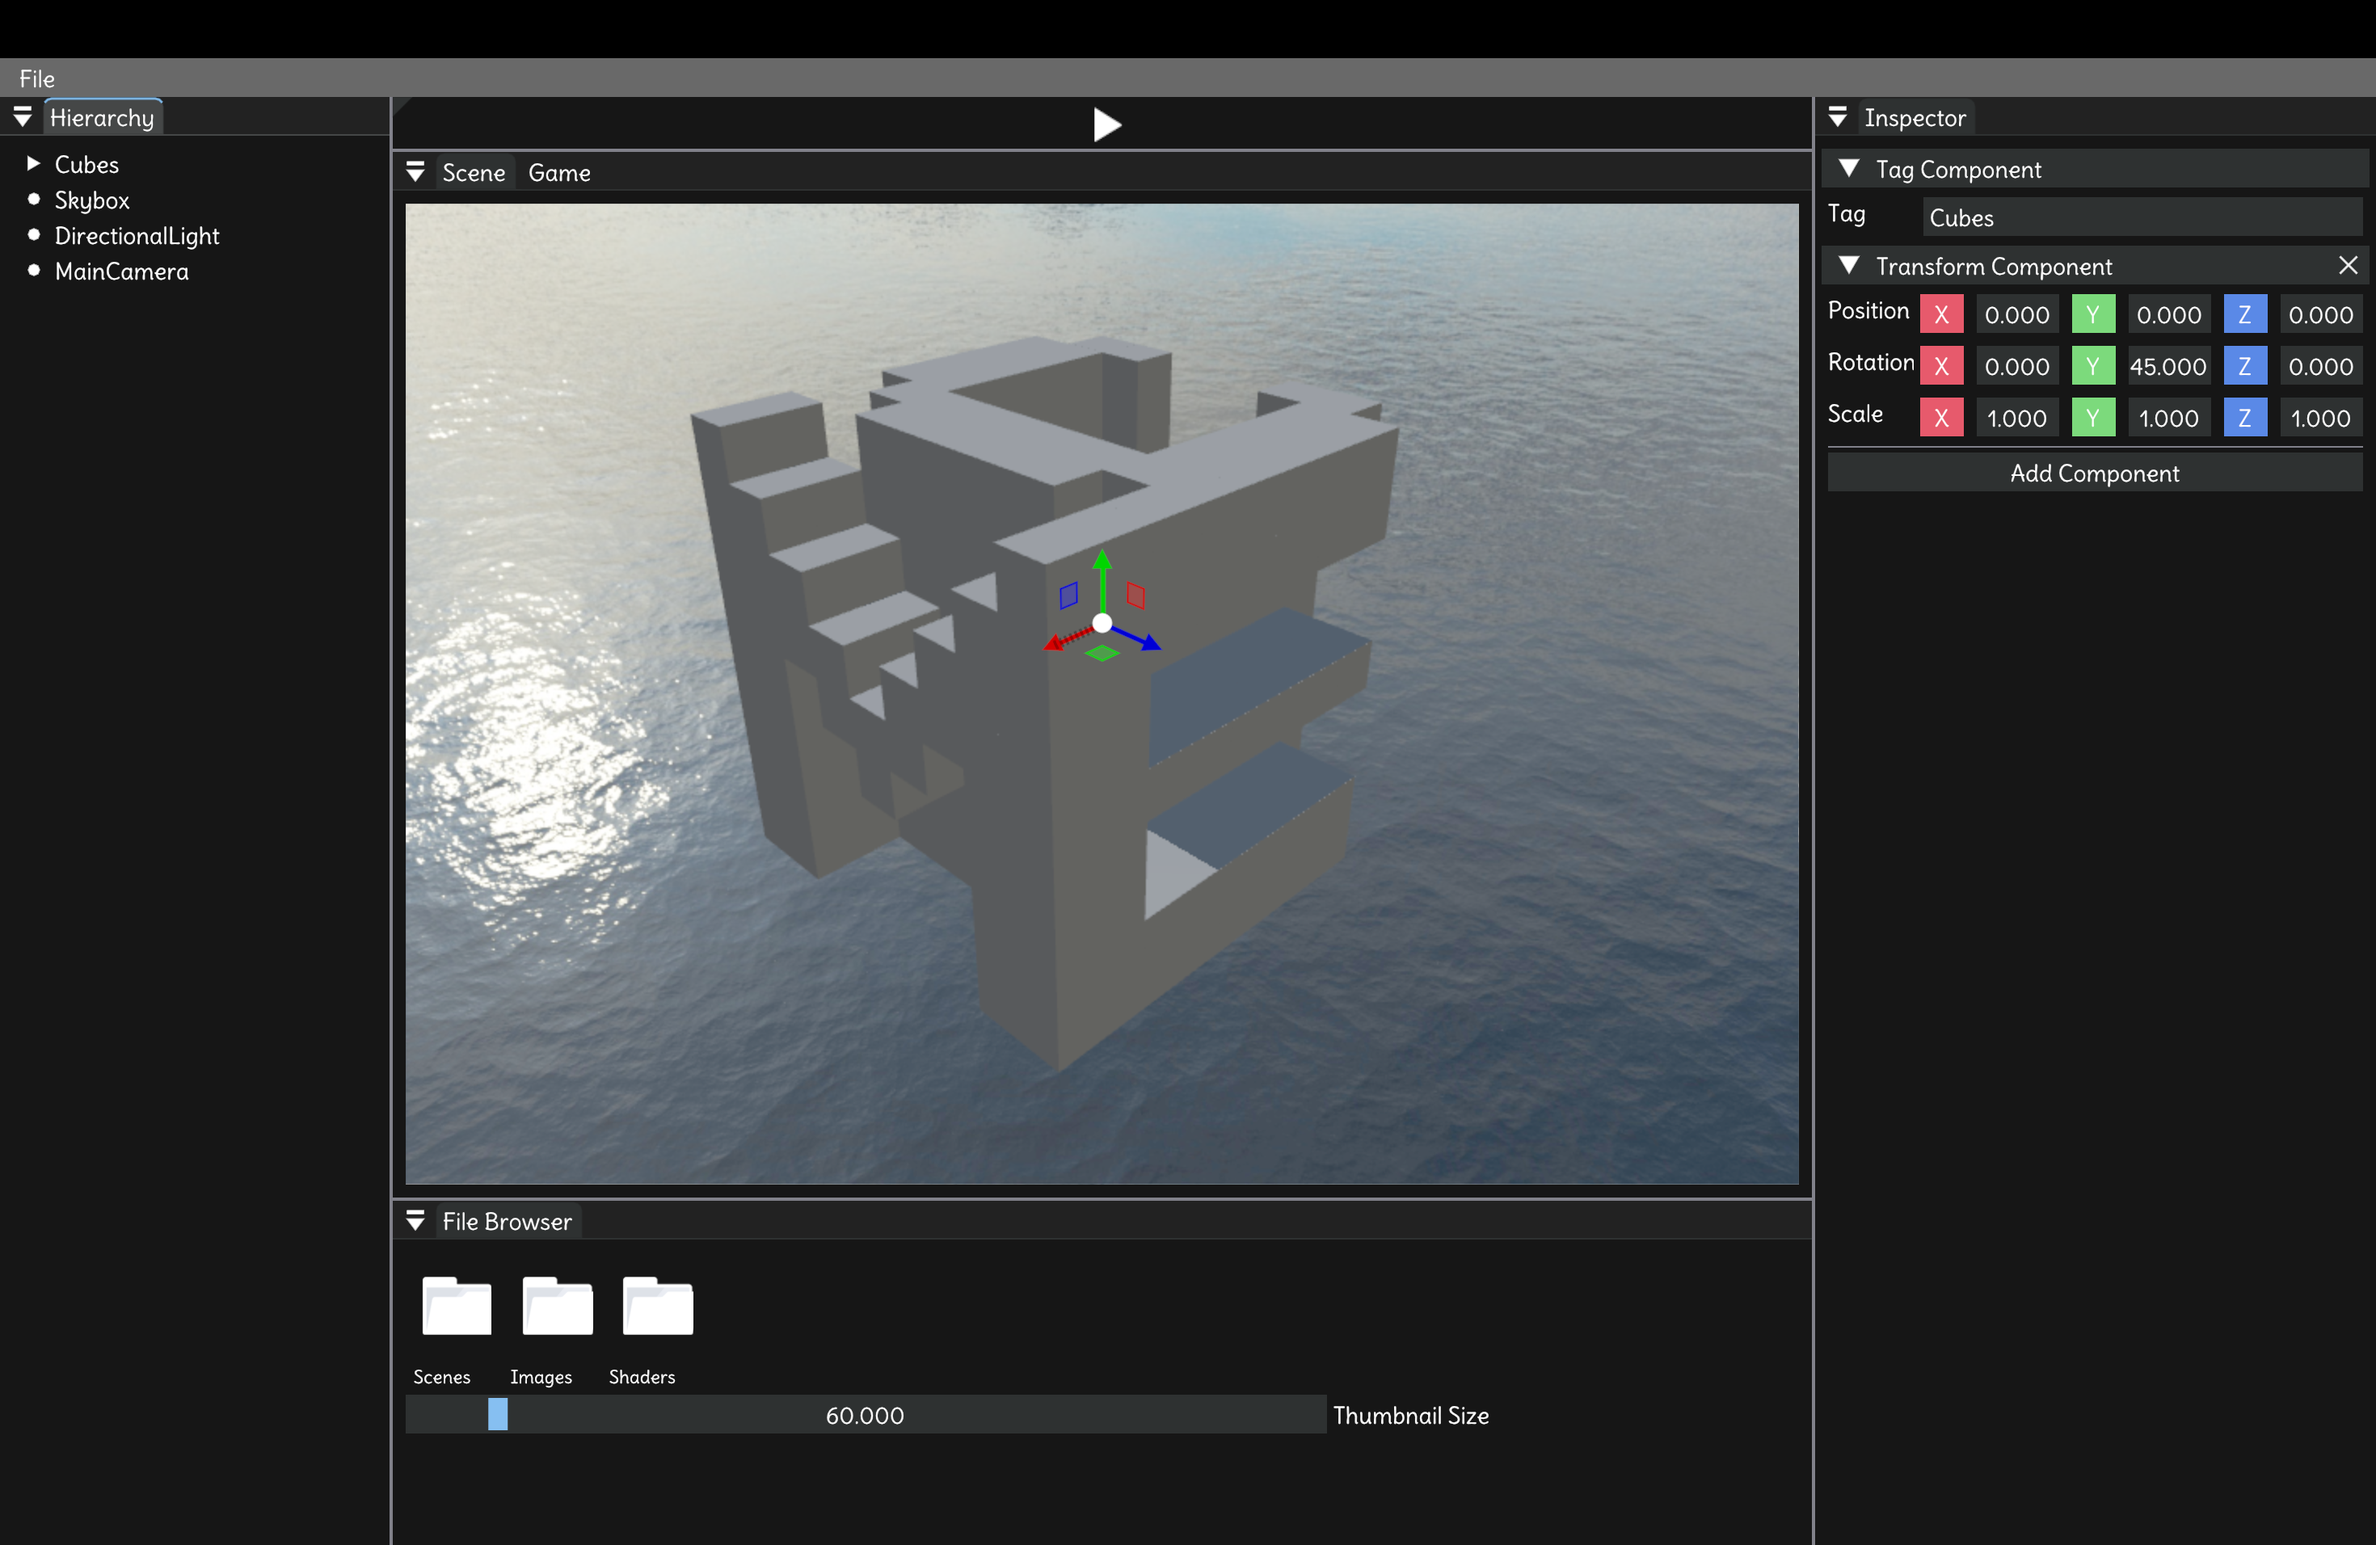
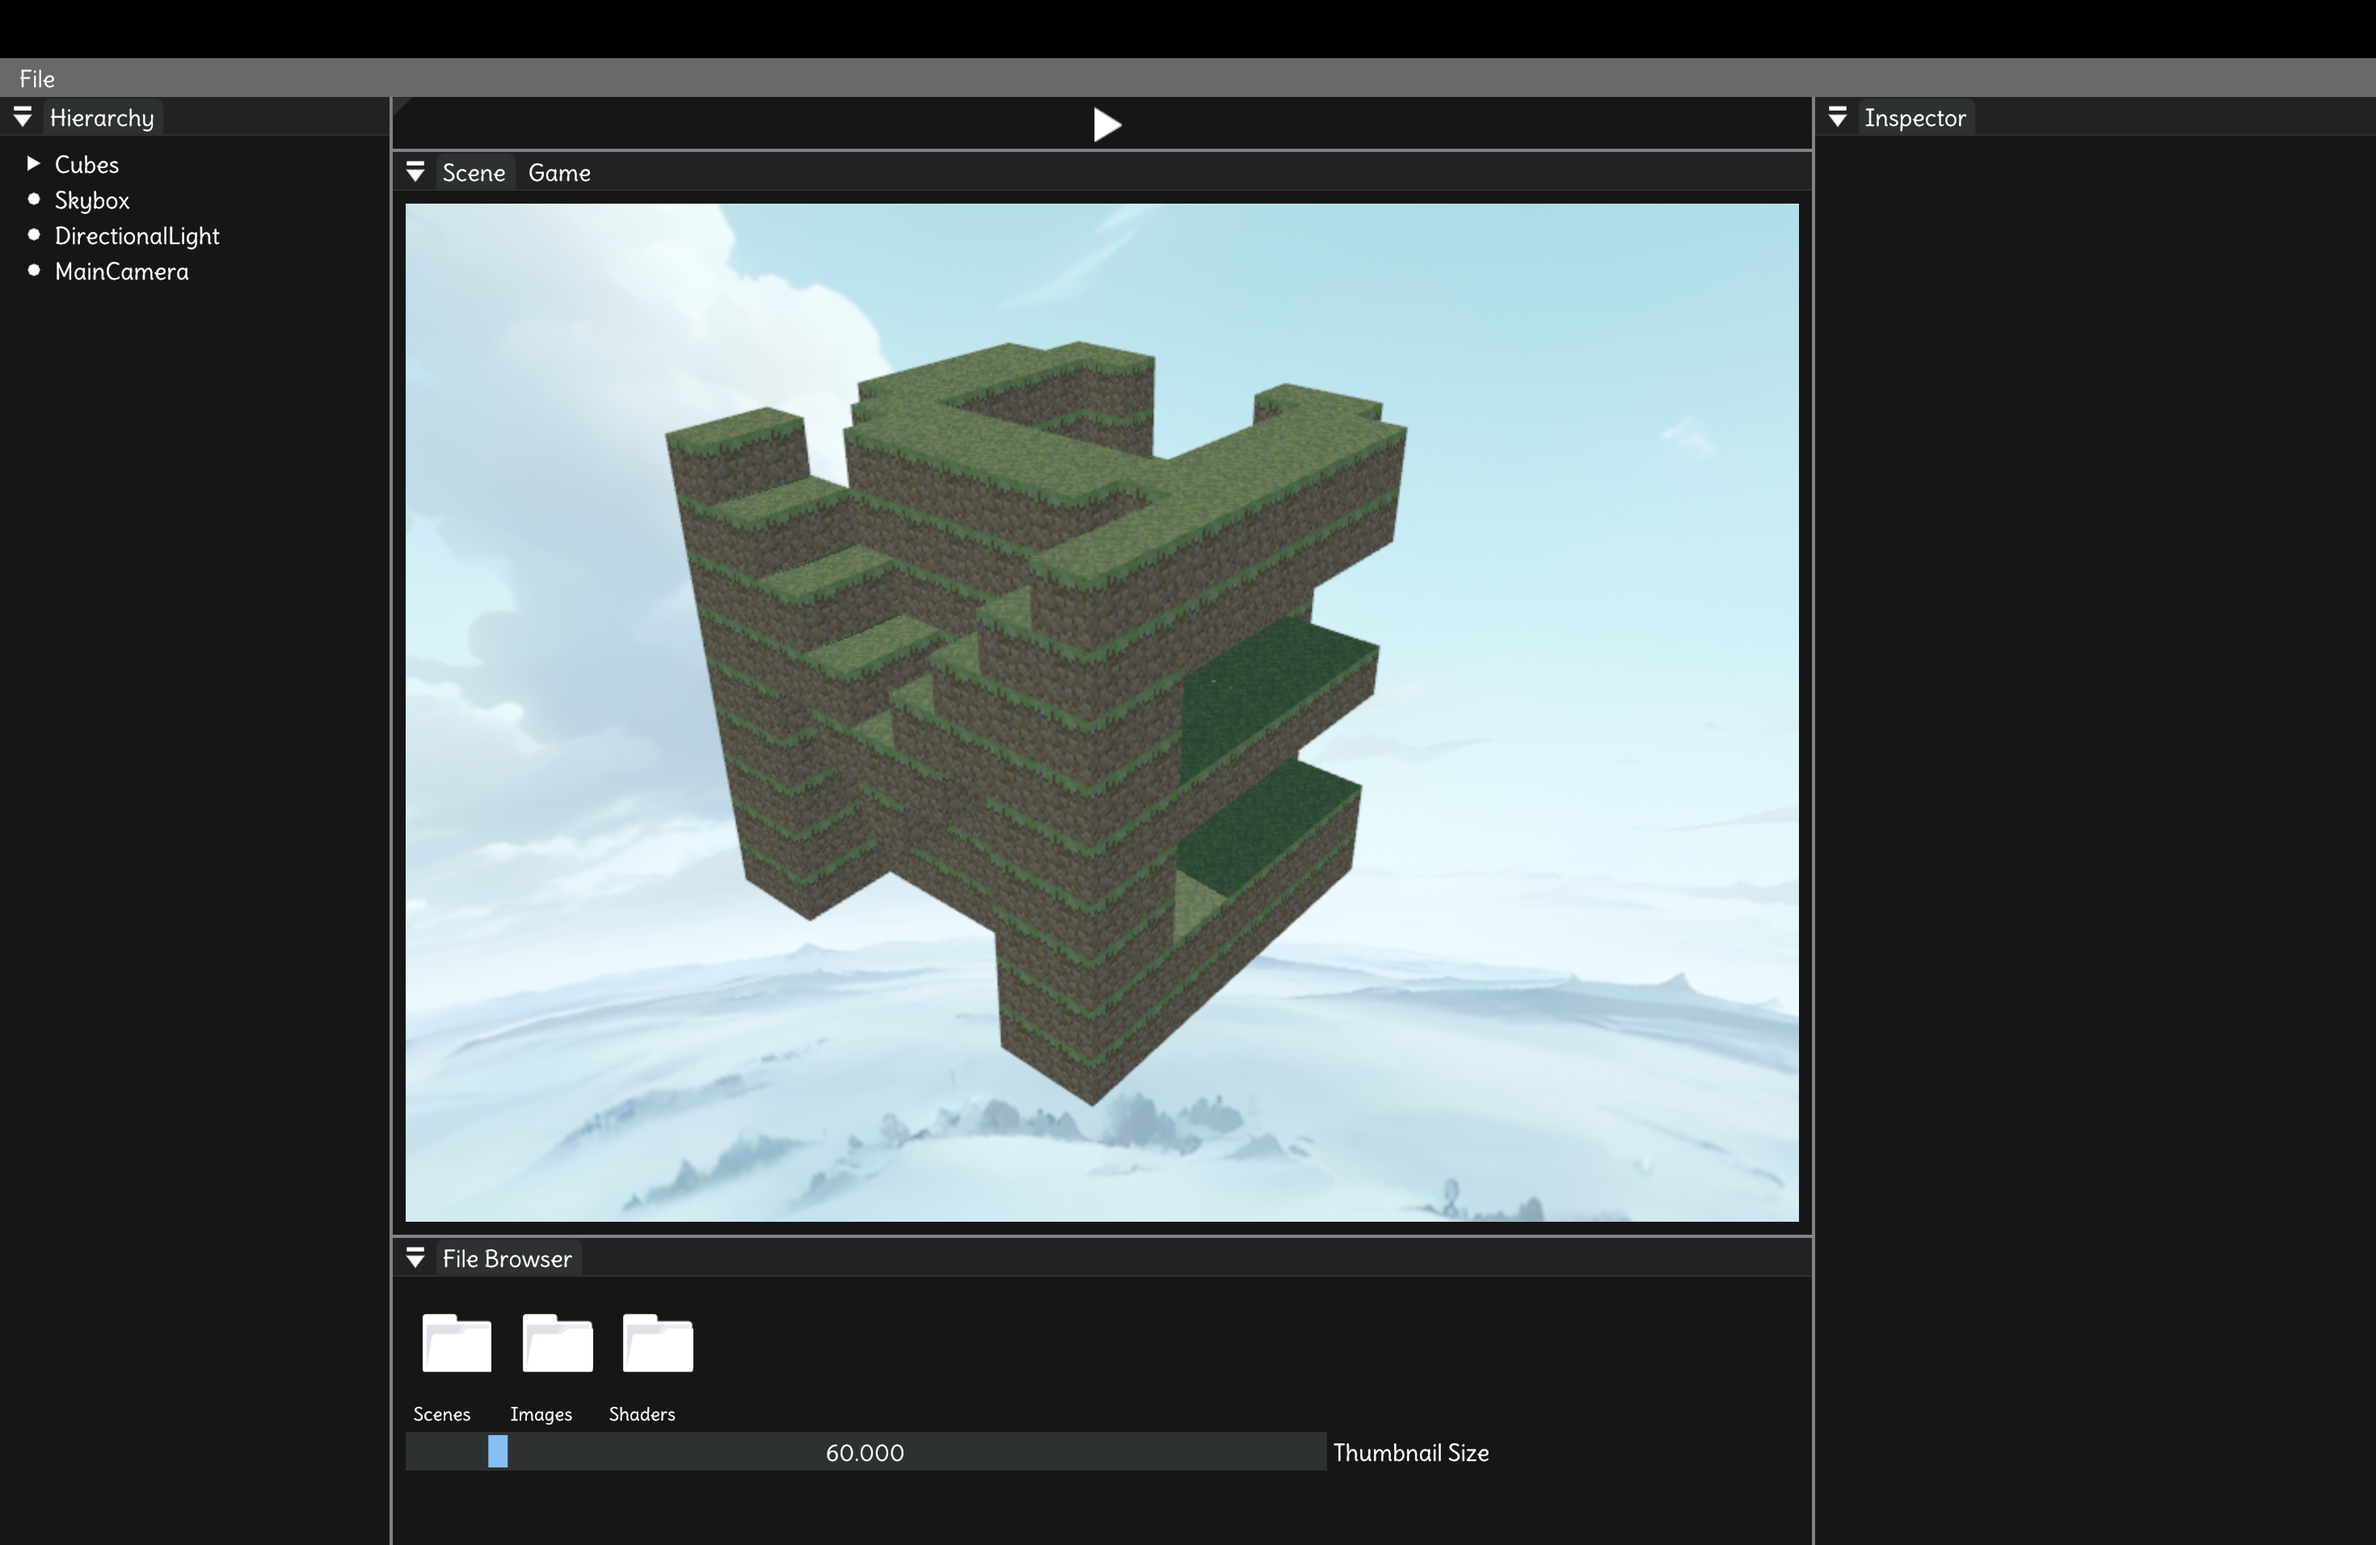
try change cubemap

diff --git a/Engine/Function/ECS/Component/Light/SkyboxComponent.hpp b/Engine/Function/ECS/Component/Light/SkyboxComponent.hpp
@@ -8,22 +8,20 @@ namespace MCEngine
 class SkyboxComponent
 {
 public:
-    SkyboxComponent(
-        const std::shared_ptr<TextureCube> &textureCube = MCEngine::TextureLibrary::GetInstance().GetTextureCube("3"))
-        : m_TextureCube(textureCube)
-    {
-        LOG_ENGINE_TRACE("Skybox Component created");
-    }
+    SkyboxComponent(const std::string textureCubeName = "3") : m_TextureCubeName(textureCubeName) {}
 
     // Getters
-    std::shared_ptr<TextureCube> &GetTextureCube() { return m_TextureCube; }
-    const std::shared_ptr<TextureCube> &GetTextureCube() const { return m_TextureCube; }
+    const std::string &GetTextureCubeName() const { return m_TextureCubeName; }
+    std::shared_ptr<TextureCube> GetTextureCube() const
+    {
+        return MCEngine::TextureLibrary::GetInstance().GetTextureCube(m_TextureCubeName);
+    }
 
     // Setters
-    void SetTextureCube(const std::shared_ptr<TextureCube> &textureCube) { m_TextureCube = textureCube; }
+    void SetTextureCubeName(const std::string &textureCubeName) { m_TextureCubeName = textureCubeName; }
 
 private:
-    std::shared_ptr<TextureCube> m_TextureCube;
+    std::string m_TextureCubeName;
 };
 
 } // namespace MCEngine

diff --git a/Engine/Function/Scene/SceneSerializer.cpp b/Engine/Function/Scene/SceneSerializer.cpp
@@ -265,8 +265,7 @@ void MCEngine::SceneSerializer::SerializeEntity(YAML::Emitter &out, MCEngine::En
         out << YAML::BeginMap;
 
         auto &skyboxComponent = entity.GetComponent<MCEngine::SkyboxComponent>();
-        out << YAML::Key << "Texture" << YAML::Value
-            << MCEngine::TextureLibrary::GetInstance().GetName(skyboxComponent.GetTextureCube());
+        out << YAML::Key << "Texture" << YAML::Value << skyboxComponent.GetTextureCubeName();
 
         out << YAML::EndMap;
     }
@@ -359,8 +358,7 @@ MCEngine::Entity MCEngine::SceneSerializer::DeserializeEntity(std::shared_ptr<Sc
     const auto &skyboxComponentData = entity["SkyboxComponent"];
     if (skyboxComponentData)
     {
-        deserializedEntity.AddComponent<SkyboxComponent>(
-            MCEngine::TextureLibrary::GetInstance().GetTextureCube(skyboxComponentData["Texture"].as<std::string>()));
+        deserializedEntity.AddComponent<SkyboxComponent>(skyboxComponentData["Texture"].as<std::string>());
     }
 
     const auto &relationshipComponentData = entity["RelationshipComponent"];

diff --git a/Editor/Sources/UI/InspectorPanel.cpp b/Editor/Sources/UI/InspectorPanel.cpp
@@ -239,6 +239,20 @@ void MCEditor::InspectorPanel::OnImGuiRender() const
             }
         });
 
+        // SkyboxComponent
+        DrawComponent<MCEngine::SkyboxComponent>(
+            "Skybox Component", selectedEntity, [](MCEngine::SkyboxComponent &skybox) {
+                DrawTable2<MCEngine::SkyboxComponent>("Texture", [&skybox]() {
+                    char buffer[256];
+                    memset(buffer, 0, sizeof(buffer));
+                    strncpy(buffer, skybox.GetTextureCubeName().c_str(), sizeof(buffer) - 1);
+                    if (ImGui::InputText("##Texture", buffer, sizeof(buffer)))
+                    {
+                        skybox.SetTextureCubeName(std::string(buffer));
+                    }
+                });
+            });
+
         DrawAddComponentButton(selectedEntity);
     }
 

diff --git a/Editor/Sources/Scene/ExampleScene.cpp b/Editor/Sources/Scene/ExampleScene.cpp
@@ -94,7 +94,7 @@ void MCEditor::ExampleScene::WelcomeToMCEngine()
     int size = 9;
     float center = size / 2.0f;
     MCEngine::Entity cubes = AddEmptyEntity(
-        "Cubes", MCEngine::TransformComponent(glm::vec3(0.0f), glm::vec3(0, 45.0f, 0.0f), glm::vec3(1.0f)));
+        "Cubes", MCEngine::TransformComponent(glm::vec3(0.0f), glm::vec3(0, 50.0f, 0.0f), glm::vec3(1.0f)));
     for (int x = 0; x < size; x++)
     {
         for (int y = 0; y < size; y++)
